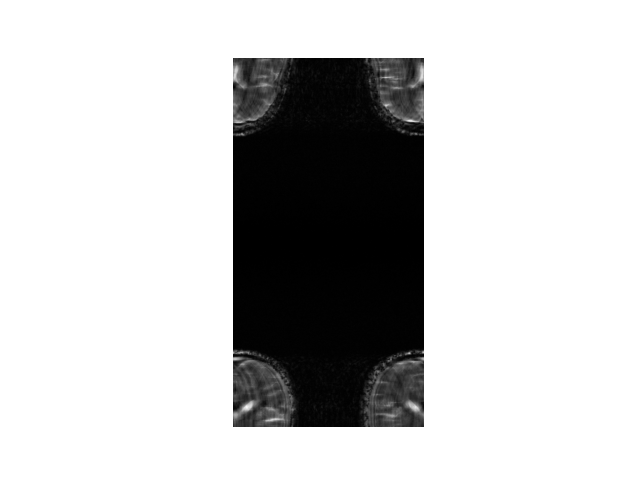
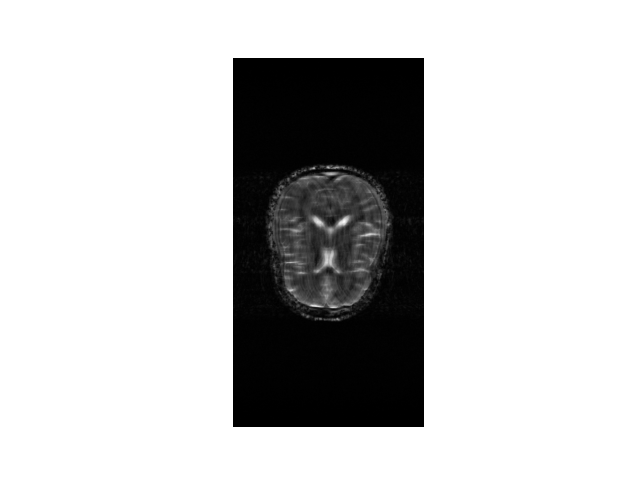
extra fftshift at end

diff --git a/my_CDLNet/sense.py b/my_CDLNet/sense.py
@@ -50,7 +50,6 @@ def main(args):
 
     # Detect acceleration maps
     #mask = detect_acc_mask(kspace)
-    breakpoint()
     # Make an acceleration map
     mask, _ = make_acc_mask(shape = (smaps.shape[2], smaps.shape[2]), accel = 4, acs_lines = 24)
     # Switch axes and send to GPU
@@ -65,9 +64,9 @@ def main(args):
     mri_recon, tol_reached = sense(kspace_masked, mask, smaps, verbose = True)
 
     breakpoint()
-    gnd_truth = fft.fftshift(mri_decoding(kspace, mask, smaps)).permute(1, 0)
-    zero_filled_recon = fft.fftshift(mri_decoding(kspace_masked, mask, smaps)).permute(1,0)
-    mri_recon = fft.fftshift(mri_recon).permute(1,0)
+    gnd_truth = (mri_decoding(kspace, mask, smaps)).permute(1, 0)
+    zero_filled_recon = mri_decoding(kspace_masked, mask, smaps).permute(1,0)
+    mri_recon = mri_recon.permute(1,0)
     saveimg(zero_filled_recon, "test_zerofilled.png")
     saveimg(mri_recon, "test_sense.png")
     saveimg(image, "gnd_truth.png")

diff --git a/my_CDLNet/mri_utils.py b/my_CDLNet/mri_utils.py
@@ -22,7 +22,7 @@ def mri_encoding(x, acceleration_map, smaps):
     # y_coils is C x N x N
     mask = acceleration_map
     y_mask = torch.complex(mask[None, :, :], mask[None, :, :]) @ y_coils
-    return y_coils
+    return y_mask
 
 
 def mri_decoding(y, acceleration_map, smaps):
